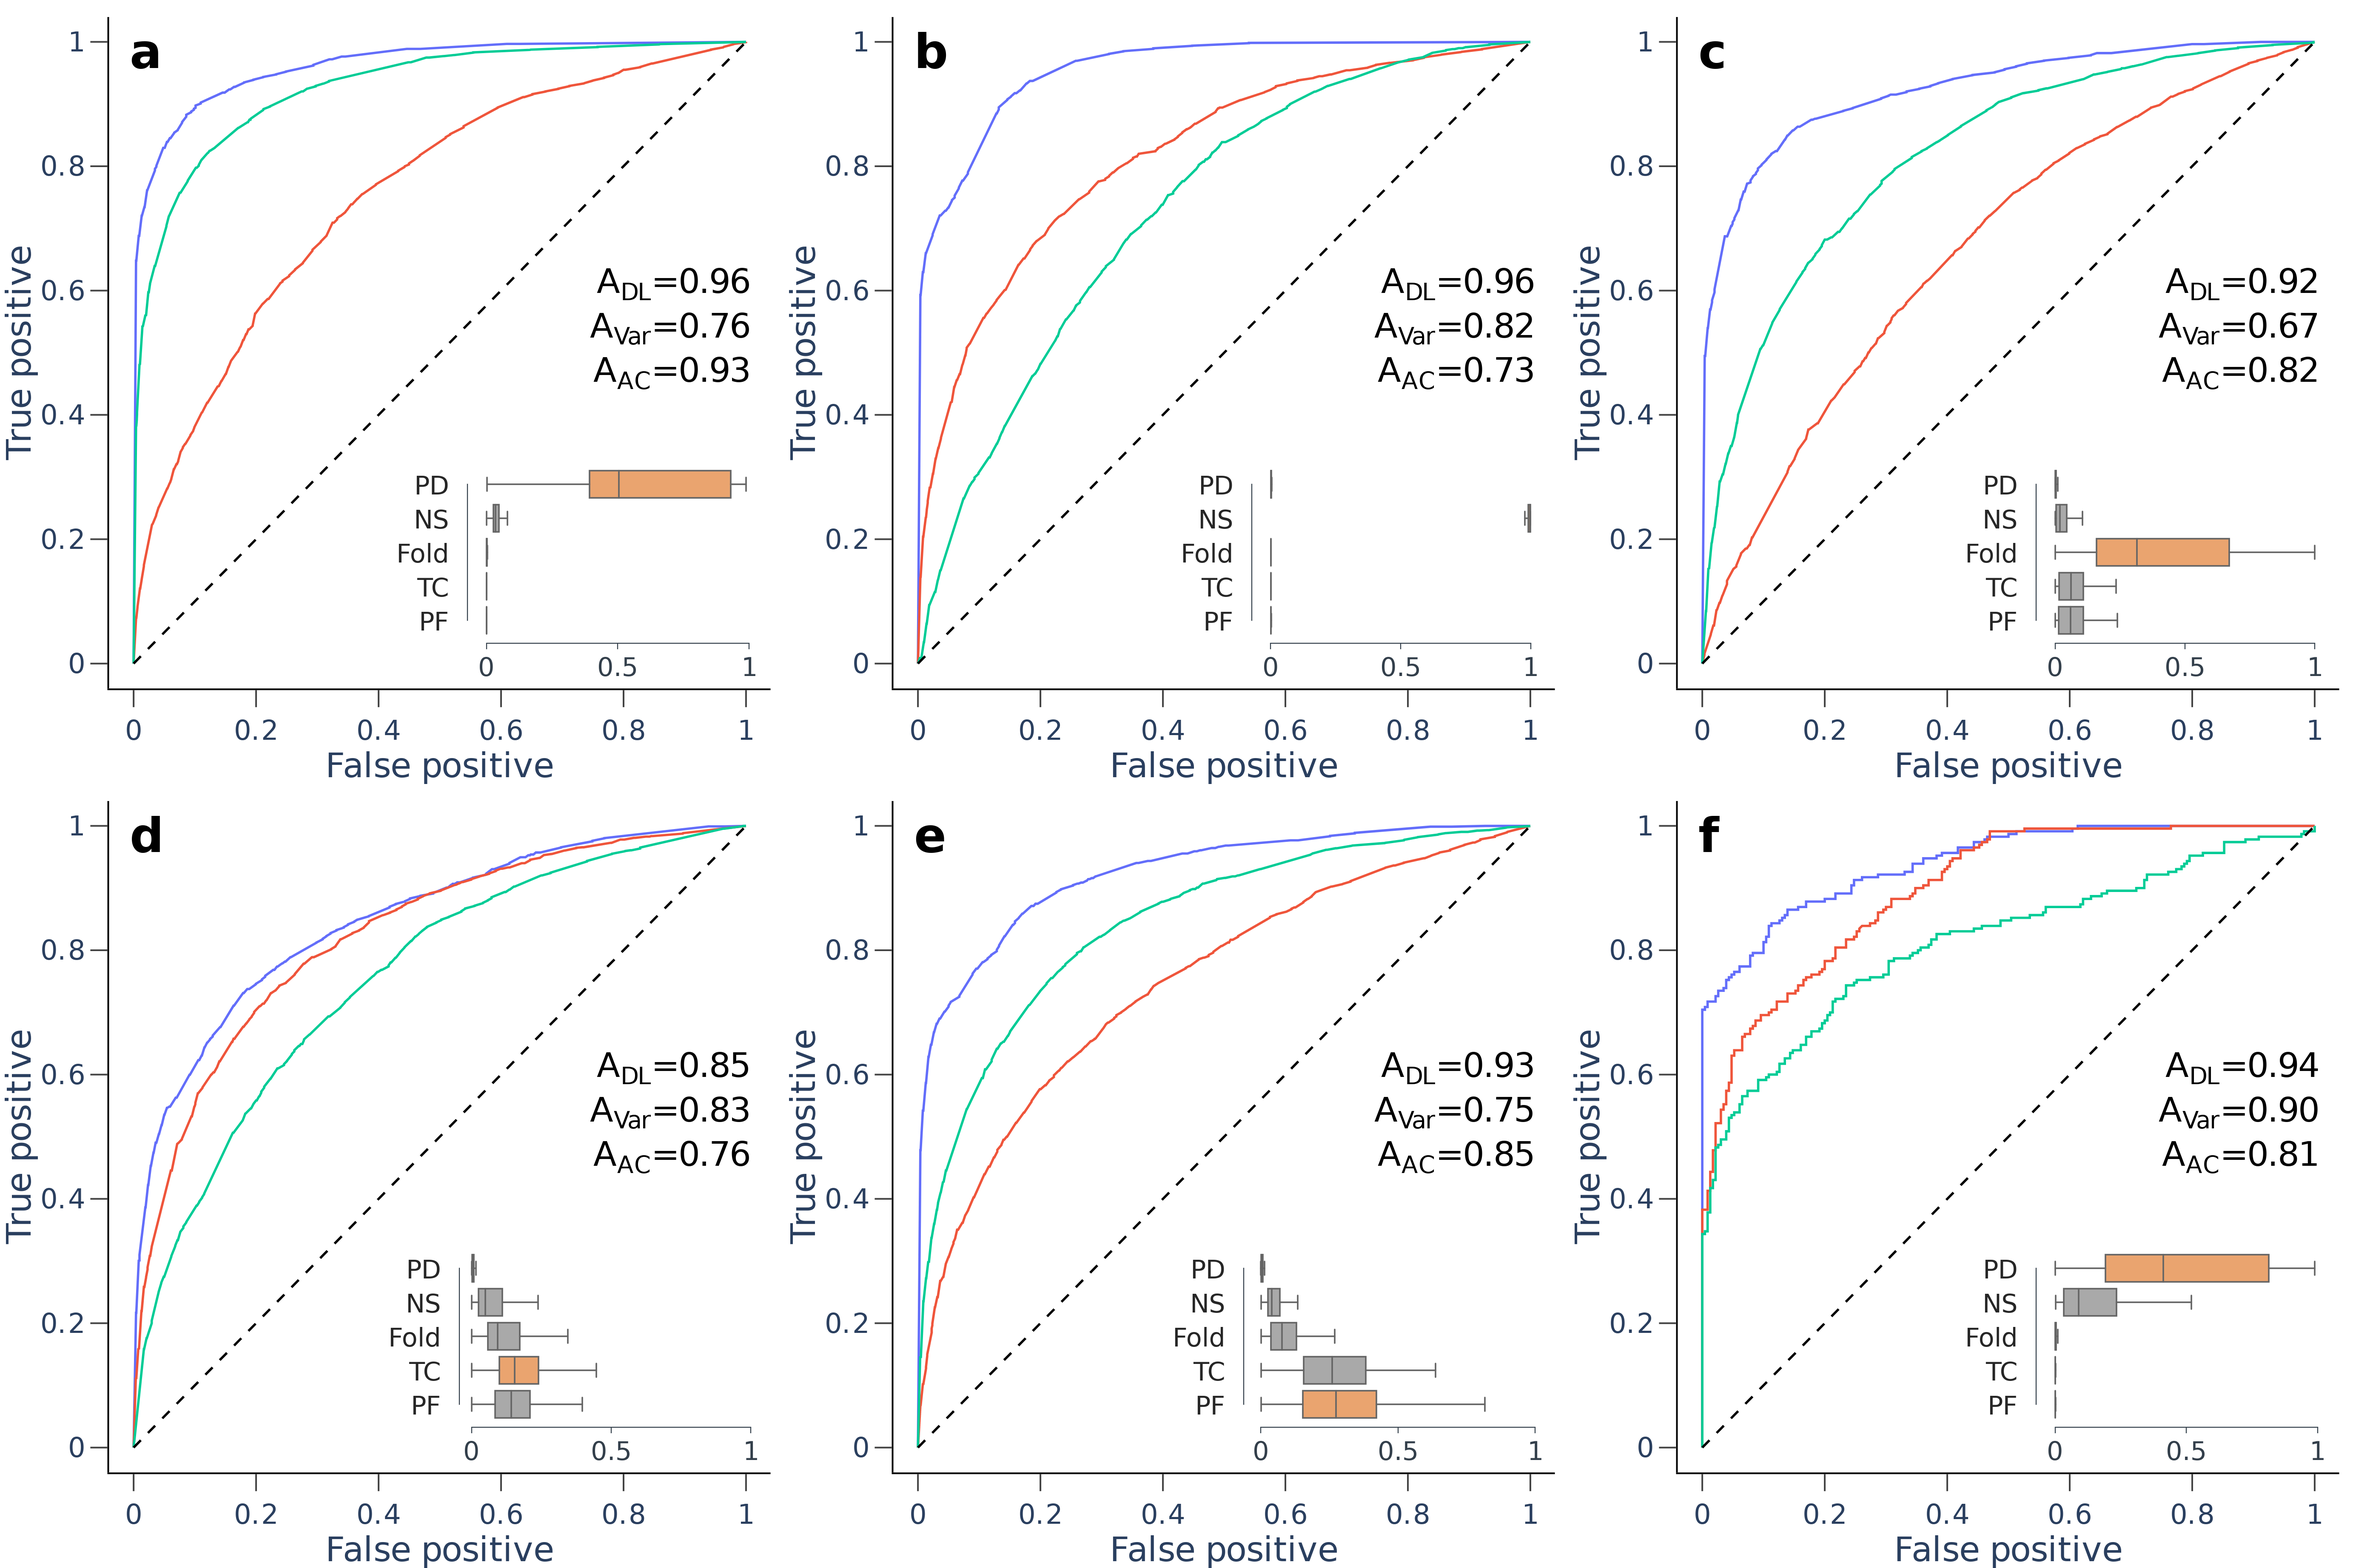
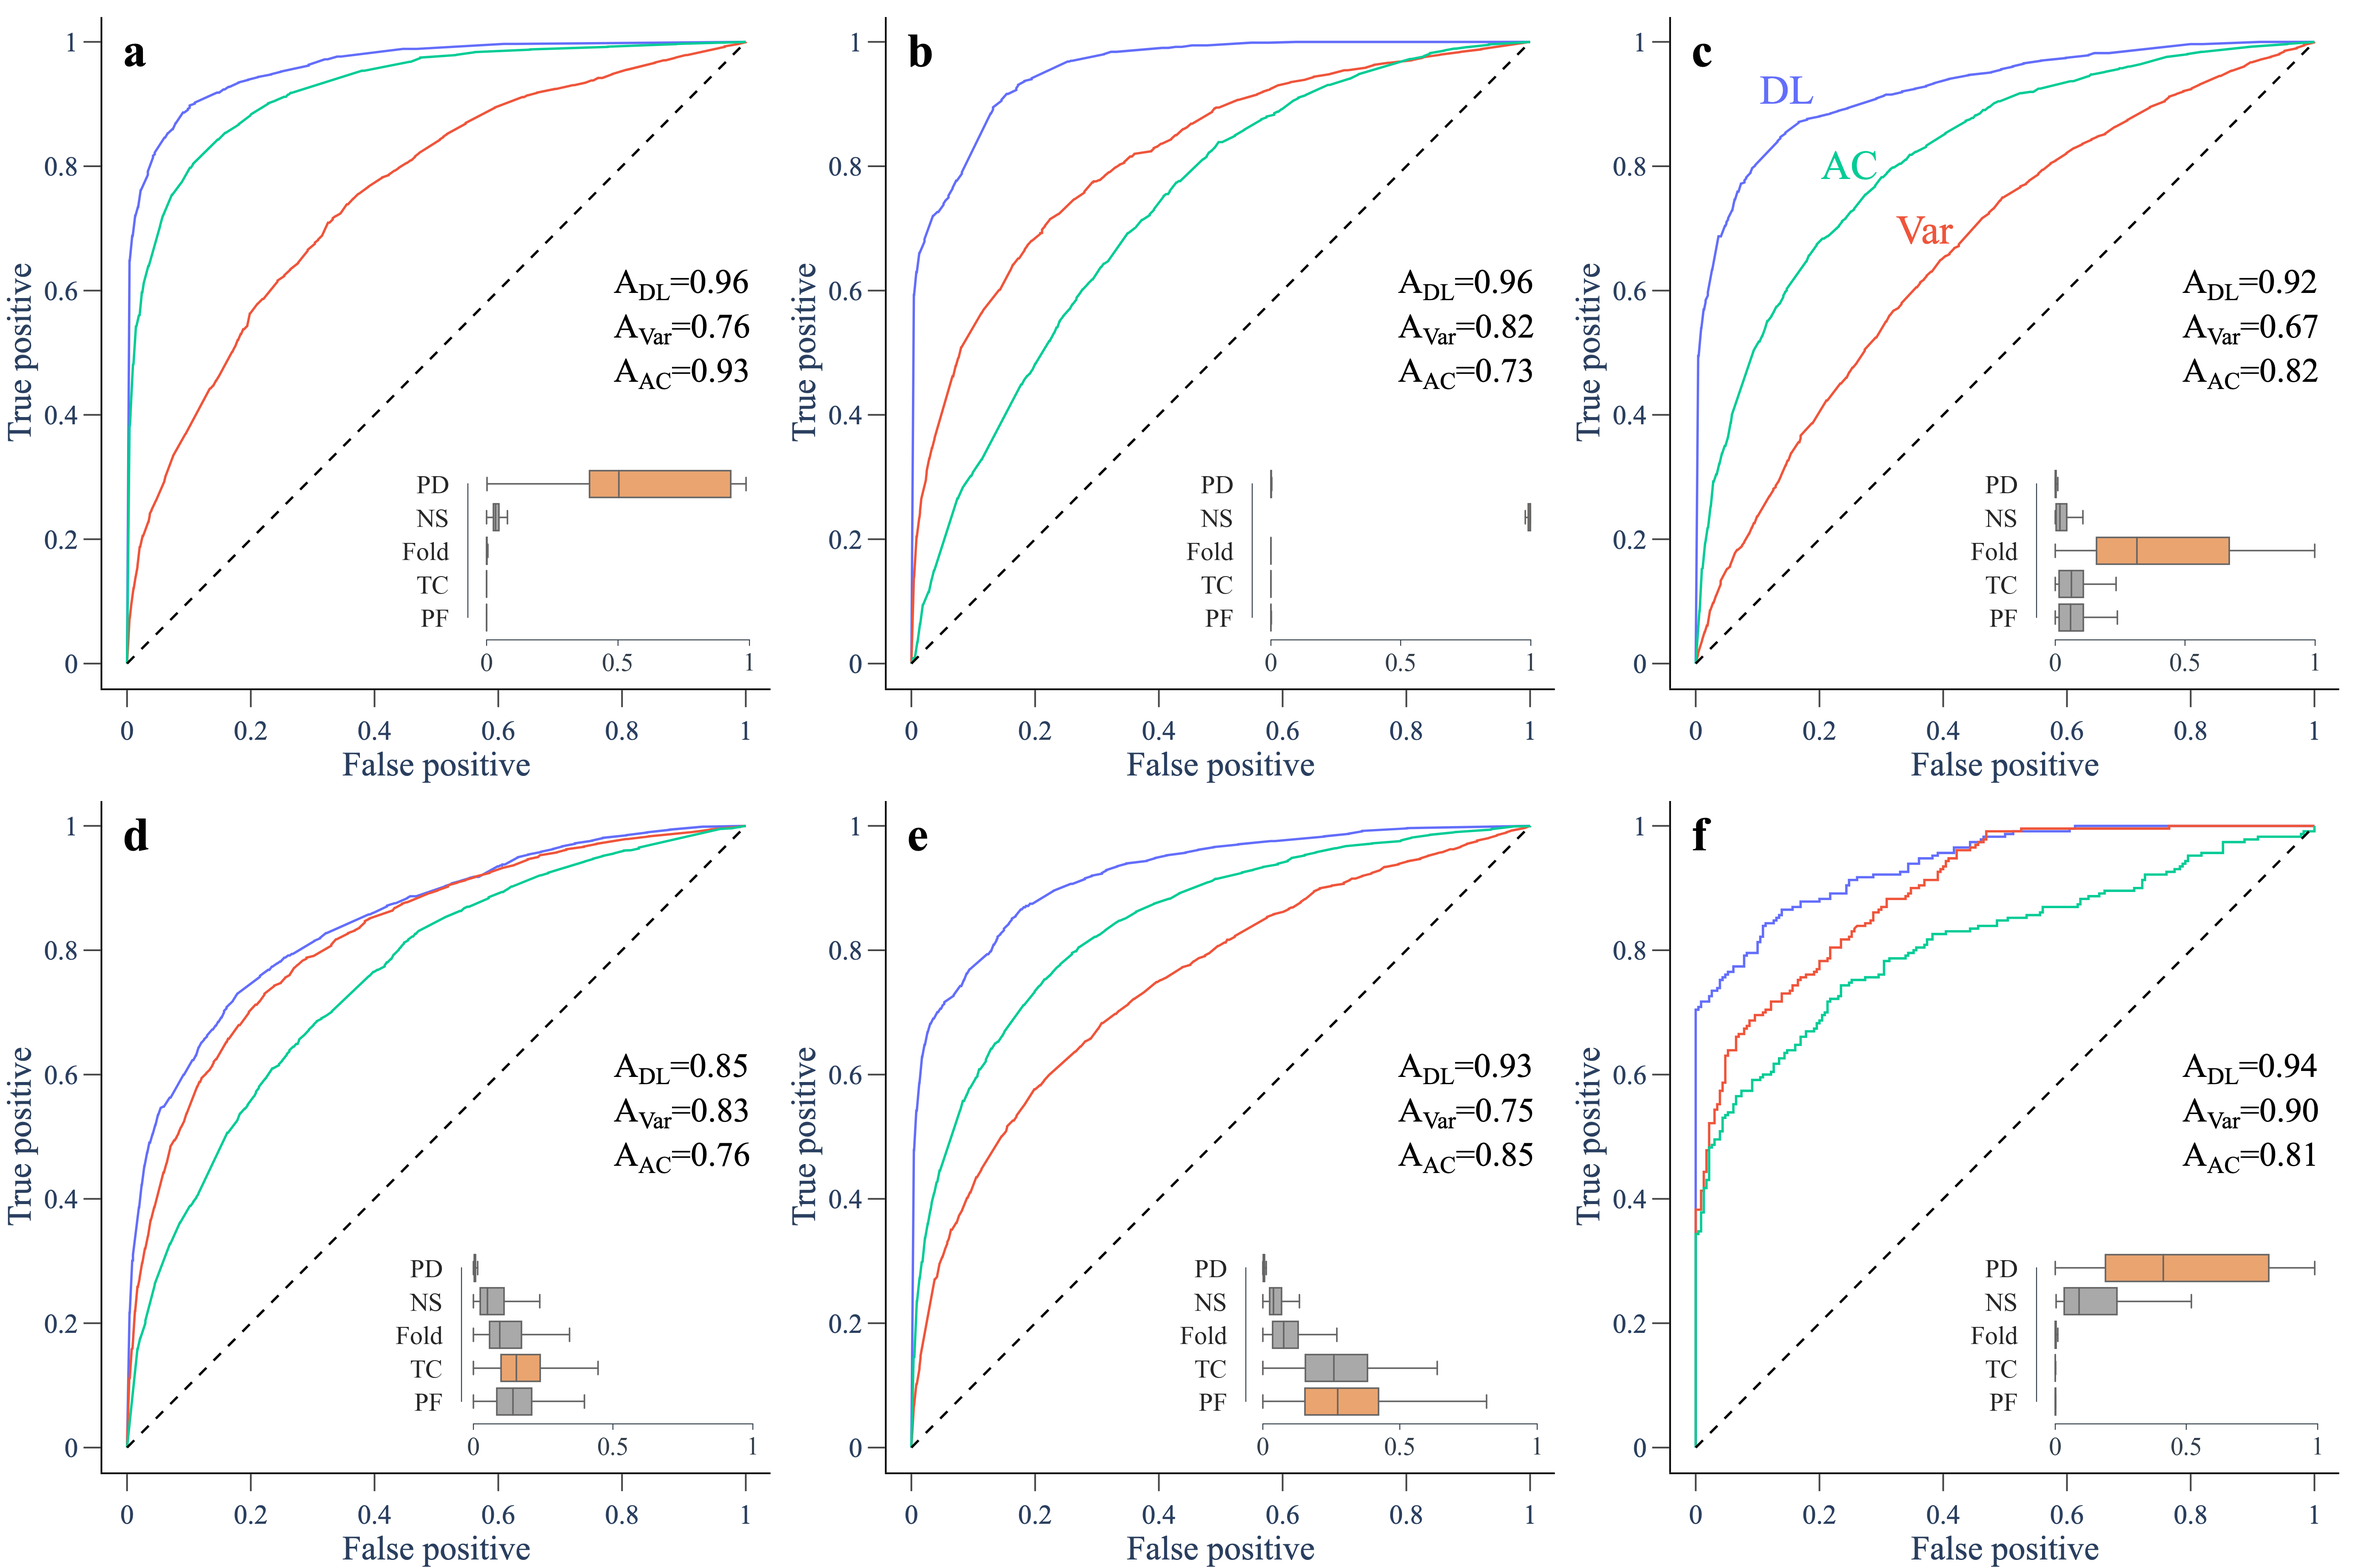
add laels to roc to indicate which curve belongs to each EWS

diff --git a/code/figure_4/make_fig.py b/code/figure_4/make_fig.py
@@ -425,6 +425,33 @@ df_roc = pd.read_csv('../test_ricker/output/df_roc.csv')
 df_dl_forced = pd.read_csv('../test_ricker/output/df_dl_forced.csv')
 
 fig_roc = make_roc_figure(df_roc, 'c')
+
+# Add text to indicate which ROC curve belongs to each EWS
+fig_roc.add_annotation(x=0.15, y=0.92,
+            text='DL',
+            showarrow=False,
+            font=dict(family='Times New Roman',
+                      size=12,
+                      color=cols[0]
+                      )
+            )
+fig_roc.add_annotation(x=0.37, y=0.7,
+            text='Var',
+            showarrow=False,
+            font=dict(family='Times New Roman',
+                      size=12,
+                      color=cols[1]
+                      )
+            )
+fig_roc.add_annotation(x=0.25, y=0.8,
+            text='AC',
+            showarrow=False,
+            font=dict(family='Times New Roman',
+                      size=12,
+                      color=cols[2]
+                      )
+            )
+
 fig_roc.write_image('temp_roc.png', scale=scale)
 
 make_inset_boxplot(df_dl_forced, 'Fold', 'temp_inset.png')
@@ -506,7 +533,7 @@ combine_roc_inset(path_roc, path_inset, path_out)
 #------------
 
 #-----------------
-# Fig 2 of manuscript: 8-panel figure for all models and empirical data
+# Fig 4 of manuscript: 8-panel figure for all models and empirical data
 #-----------------
 
 # # Early or late predictions
